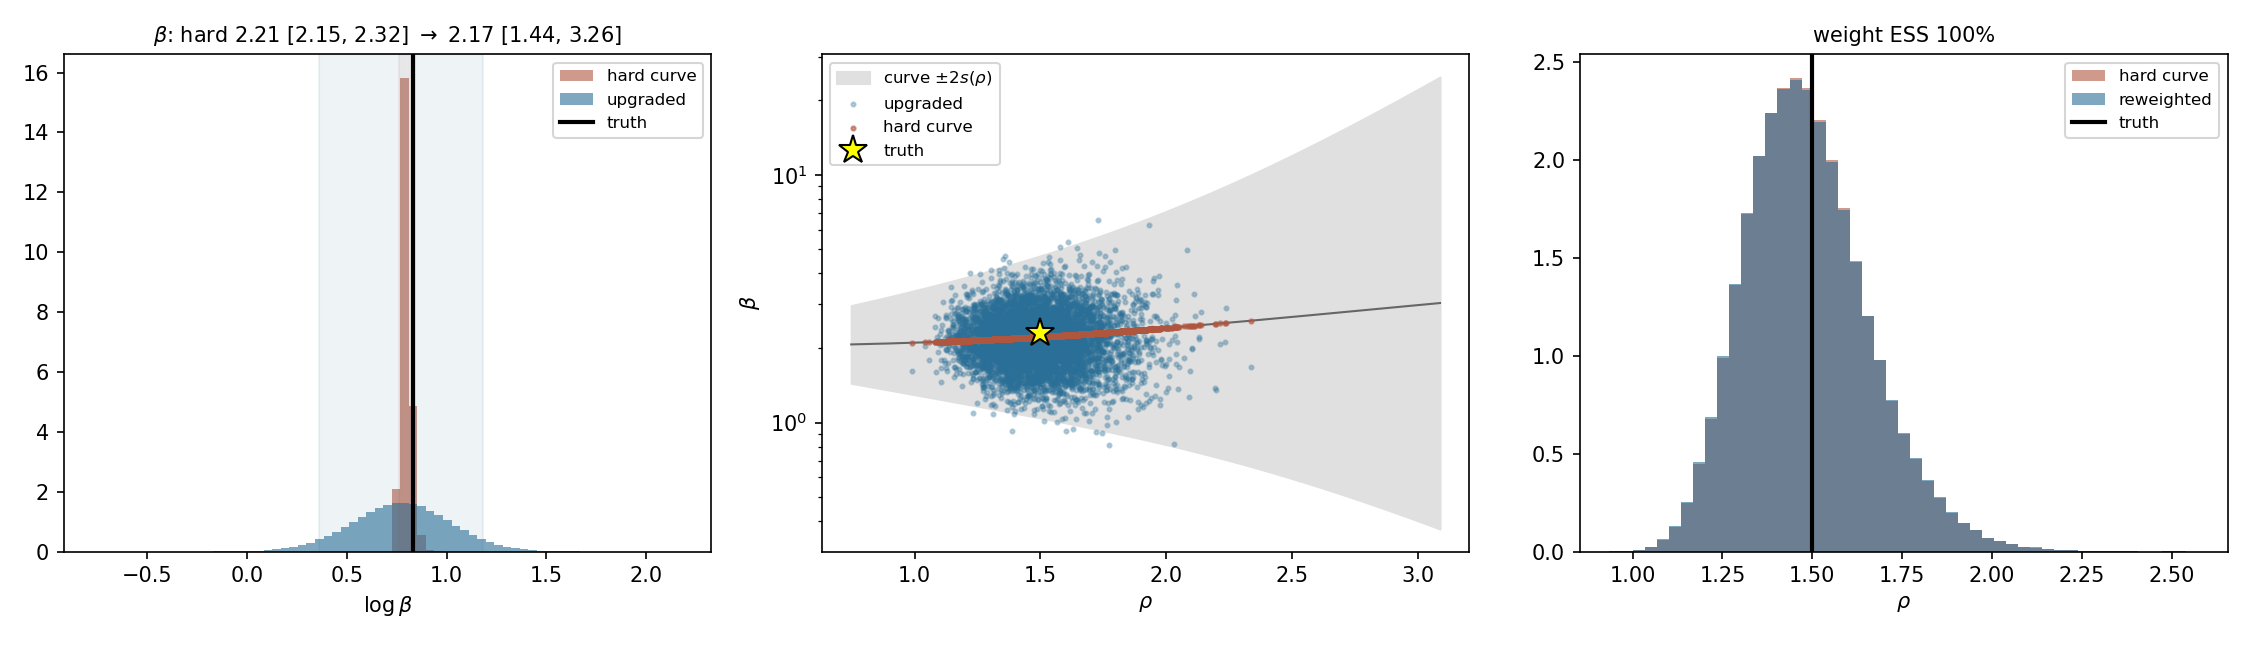
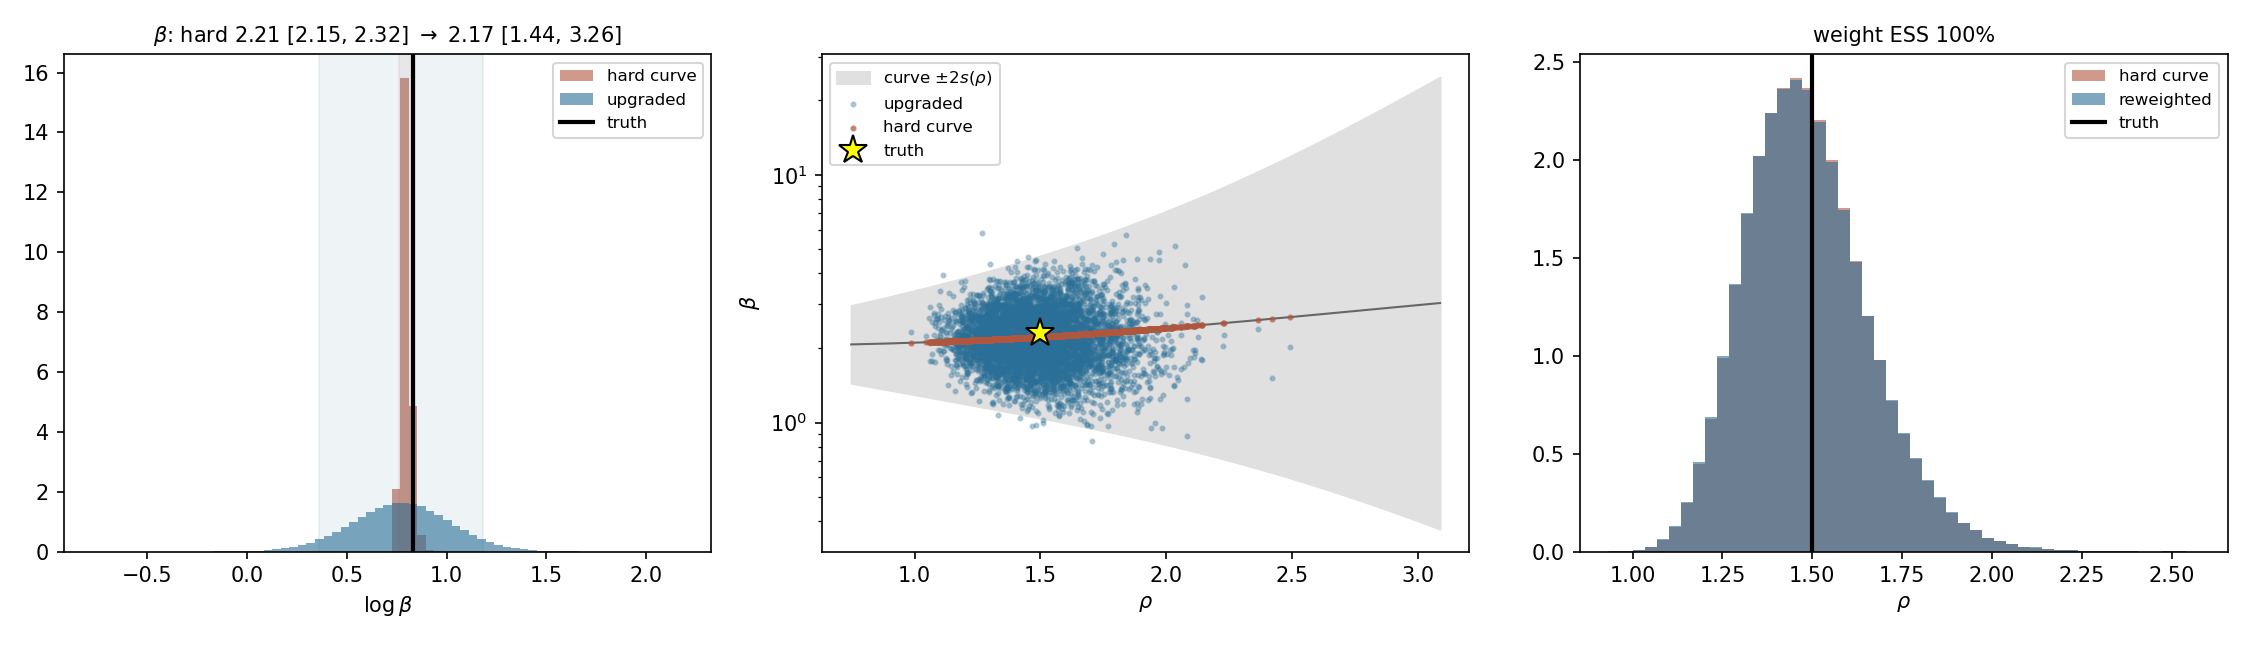
results: AB test with figures

Changed region(s): [[0.4044, 0.3721, 0.56, 0.6822]]

diff --git a/runs/cluster_kle_sig2e3/tables/e4_sampler_ab/frozen_beta_pcn.md b/runs/cluster_kle_sig2e3/tables/e4_sampler_ab/frozen_beta_pcn.md
@@ -1,0 +1,12 @@
+Frozen state: lowest-Phi kept sample, rho* = 1.5577, Phi = 51.880 (noise floor 51.66); sigma_rel = 0.002; truth beta = 2.3
+
+| beta from | median | 90% interval | sd(log beta) | covers truth | new PDE solves |
+|---|---|---|---|---|---|
+| prior at rho* (curve) | 2.247 | [1.164, 4.299] | 0.3941 | True | 0 |
+| frozen (rho*, theta*), pCN on beta | 2.233 | [2.226, 2.240] | 0.0020 | False | 80250 |
+| frozen (rho*, theta*), level swap | 2.214 | [1.454, 3.374] | 0.2554 | True | 0 |
+| hard curve, all samples | 2.210 | [2.147, 2.321] | 0.0243 | True | 0 |
+| level swap, all samples | 2.170 | [1.436, 3.264] | 0.2502 | True | 0 |
+
+Exact 1D posterior at the frozen state (grid, no MCMC): sd(log beta) 0.0020, 90% beta [2.225, 2.240], covers False; 1/sqrt(Phi'' + 1/s*^2) = 0.0020 (sigma_rel 0.002).
+pCN: acceptance 0.42, step 1.30e-02, ESS 13455; chains started from the prior.

diff --git a/runs/cluster_kle_sig2e3/tables/e1_vs_e4_ab/e1_vs_e4.md b/runs/cluster_kle_sig2e3/tables/e1_vs_e4_ab/e1_vs_e4.md
@@ -1,0 +1,12 @@
+E1 naive (log beta ~ N(0,1), log rho ~ N(0,0.75^2)) vs curve sampler (A+B) (hard -> level swap). Same KLE truth, data, sigma_rel 2e-3, 64 chains.
+
+| | E1 naive | curve sampler | truth |
+|---|---|---|---|
+| Solves per chain | 2.0M | 2.0M |  |
+| θ MPSRF, final | 1.23 | 1.08 |  |
+| log β PSRF | 1.21 | — (β on the curve) |  |
+| ρ | 1.50 [1.25, 1.83] | 1.47 [1.23, 1.79] | 1.5 |
+| Level | 0.862 [0.736, 0.938] | 0.867 [0.747, 0.939] | 0.835 |
+| β | 1.92 [1.15, 3.47] | 2.21 [2.15, 2.32] → 2.17 [1.44, 3.26] | 2.3 |
+| sd of log β | 0.342 | 0.024 → 0.250 |  |
+| Mean Φ (floor 51.7) | 69.5 | 69.5 |  |

diff --git a/runs/cluster_kle_sig2e3/tables/e4_sampler_ab/beta_upgrade.md b/runs/cluster_kle_sig2e3/tables/e4_sampler_ab/beta_upgrade.md
@@ -10,3 +10,5 @@
 | level, upgraded | 0.866 | [0.743, 0.939] | 0.061 | 0.835 | True |
 
 weight ESS 406718 of 407488 (99.8%); sd(log w) 0.041; max level shift 1.72e-03; |c| 4.646, constant-field residual 0.034
+
+solve check (200 samples): Phi_new - Phi_old median 0.0224, sd 0.349, max |.| 1.65
